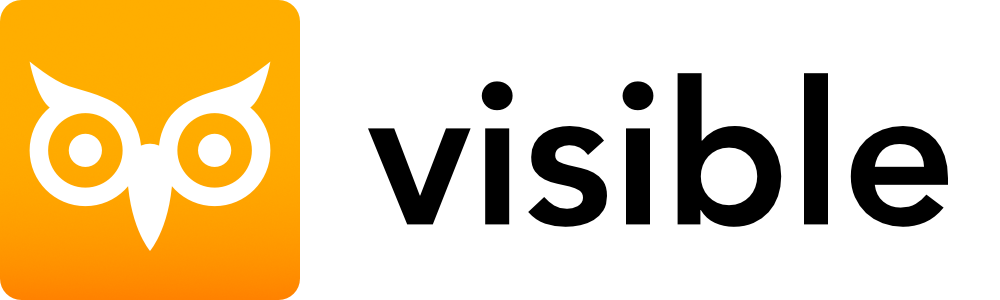
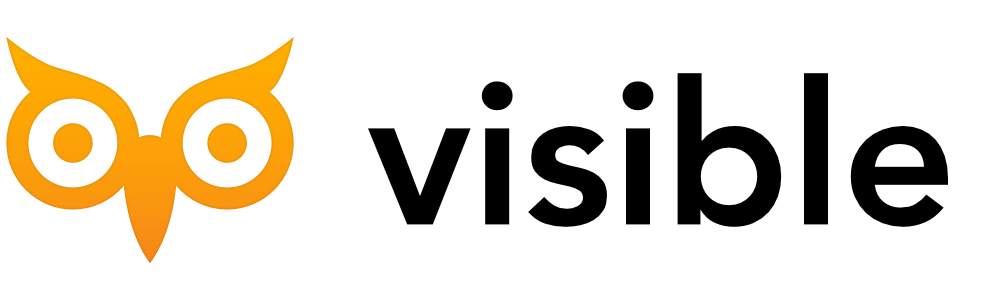
Update image

Changed region(s): [[0.0, 0.0, 0.31, 1.0]]

diff --git a/README.md b/README.md
@@ -1,4 +1,4 @@
-# <img alt="Visible" src="https://i.imgur.com/sI6MqTF.png" width="240px" />
+# <img alt="Visible" src="https://i.imgur.com/0CfRzj5.png" width="280px" />
 
 Visible makes the web better in a perspective of accessibility
 
